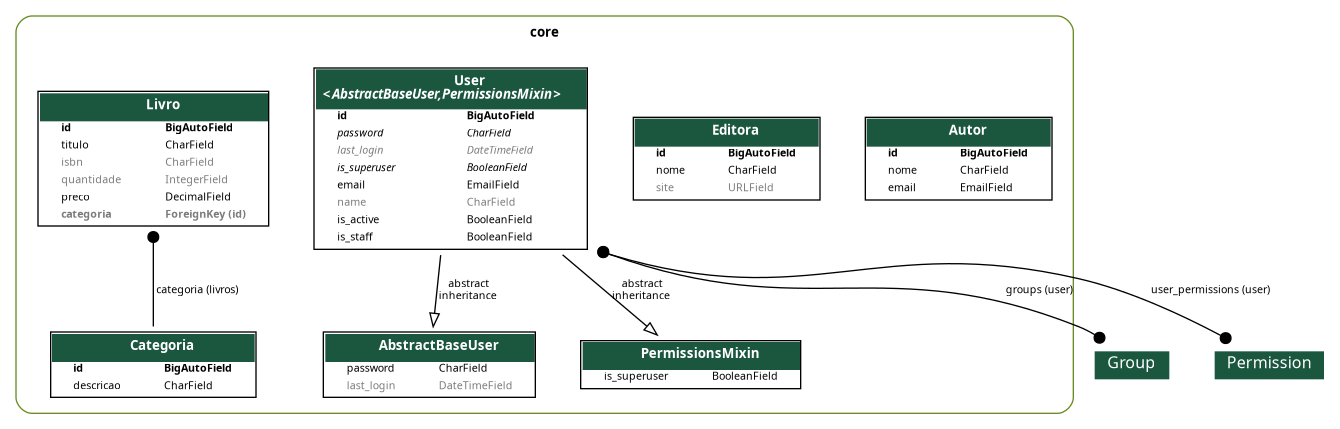
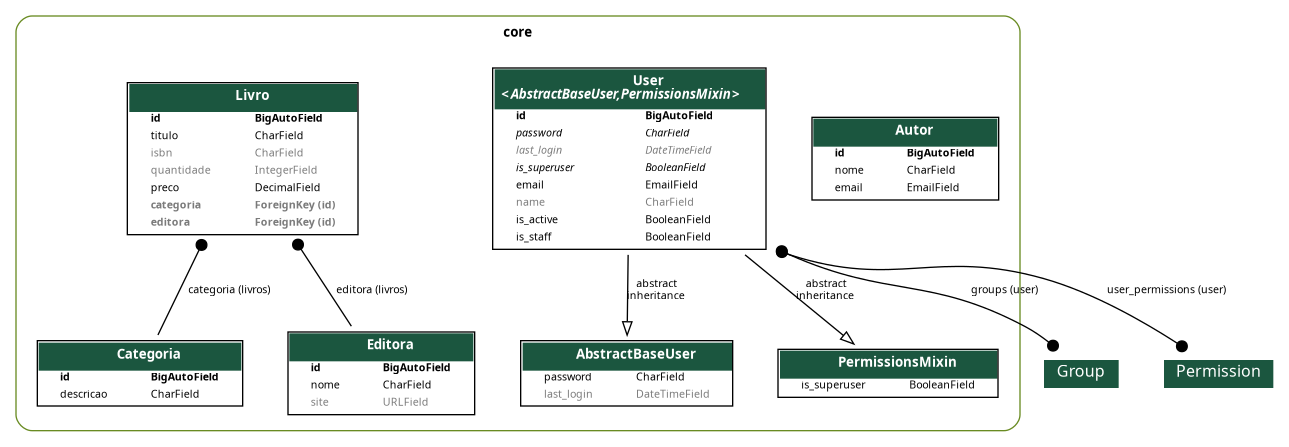
feat:criação do relacionamento livro e editora

Changed region(s): [[0.0, 0.0303, 0.993, 0.9697], [0.2483, 0.6364, 0.3724, 0.697], [0.0931, 0.6364, 0.2172, 0.697]]

diff --git a/core/models/livro.py b/core/models/livro.py
@@ -1,7 +1,7 @@
 from django.db import models
 
 from .categoria import Categoria
-
+from .editora import Editora
 
 class Livro(models.Model):
     titulo = models.CharField(max_length=255)
@@ -9,6 +9,7 @@ class Livro(models.Model):
     quantidade = models.IntegerField(default=0,  null=True, blank=True)
     preco = models.DecimalField(max_digits=7, decimal_places=2, default=0)
     categoria = models.ForeignKey(Categoria, on_delete=models.PROTECT, related_name='livros', blank=True, null=True)
+    editora = models.ForeignKey(Editora, on_delete=models.PROTECT, related_name='livros', blank=True, null=True)
 
     def __str__(self):
         return f'({self.id}) {self.titulo} ({self.quantidade})'

diff --git a/core/migrations/0008_livro_editora.py b/core/migrations/0008_livro_editora.py
@@ -1,0 +1,19 @@
+# Generated by Django 5.2.12 on 2026-03-20 13:34
+
+import django.db.models.deletion
+from django.db import migrations, models
+
+
+class Migration(migrations.Migration):
+
+    dependencies = [
+        ('core', '0007_livro_categoria'),
+    ]
+
+    operations = [
+        migrations.AddField(
+            model_name='livro',
+            name='editora',
+            field=models.ForeignKey(blank=True, null=True, on_delete=django.db.models.deletion.PROTECT, related_name='livros', to='core.editora'),
+        ),
+    ]
